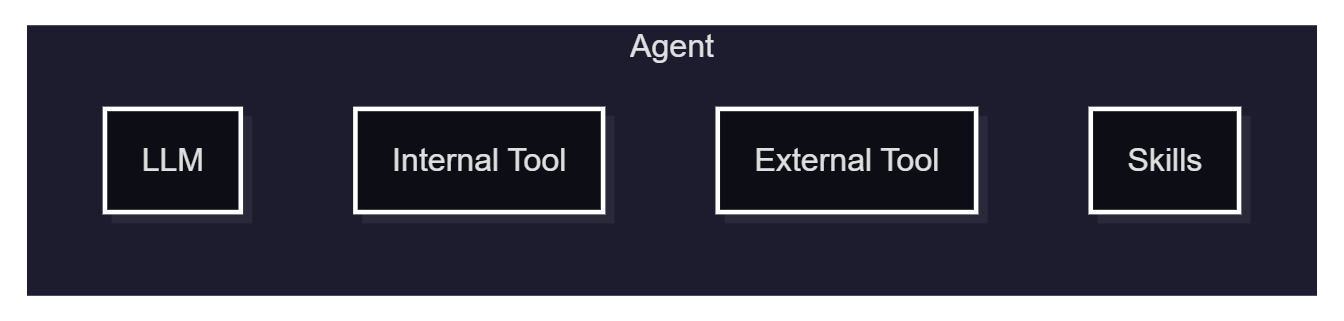
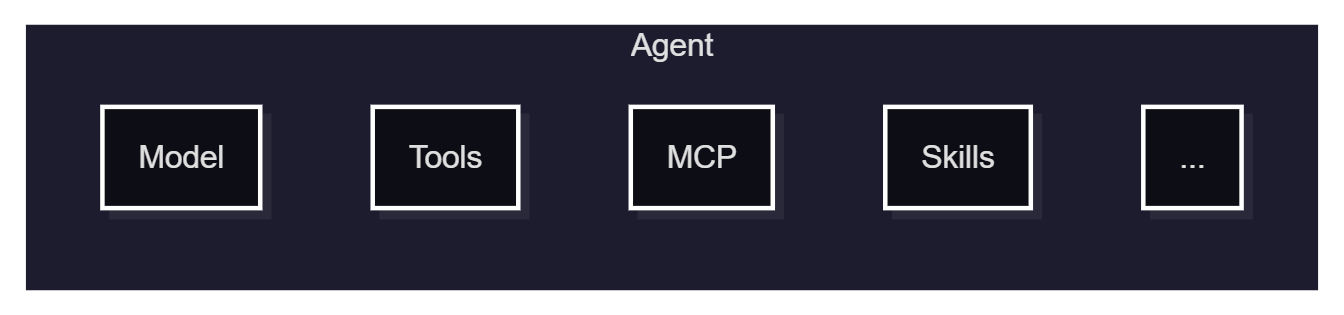
docs: update agent tools flow diagram and refine primitives workflow section

diff --git a/slide.md b/slide.md
@@ -117,11 +117,13 @@ style: |
 
 # Agent components
 
+The basic agent components:
+
 <img src="https://raw.githubusercontent.com/anoochit/korat_tech_night_slide/refs/heads/master/agent_tools_flow.png">
 
 ---
 
-# Primitives Workflow
+# Primitives Agent Workflow
 
 - Sequential
 - Loop